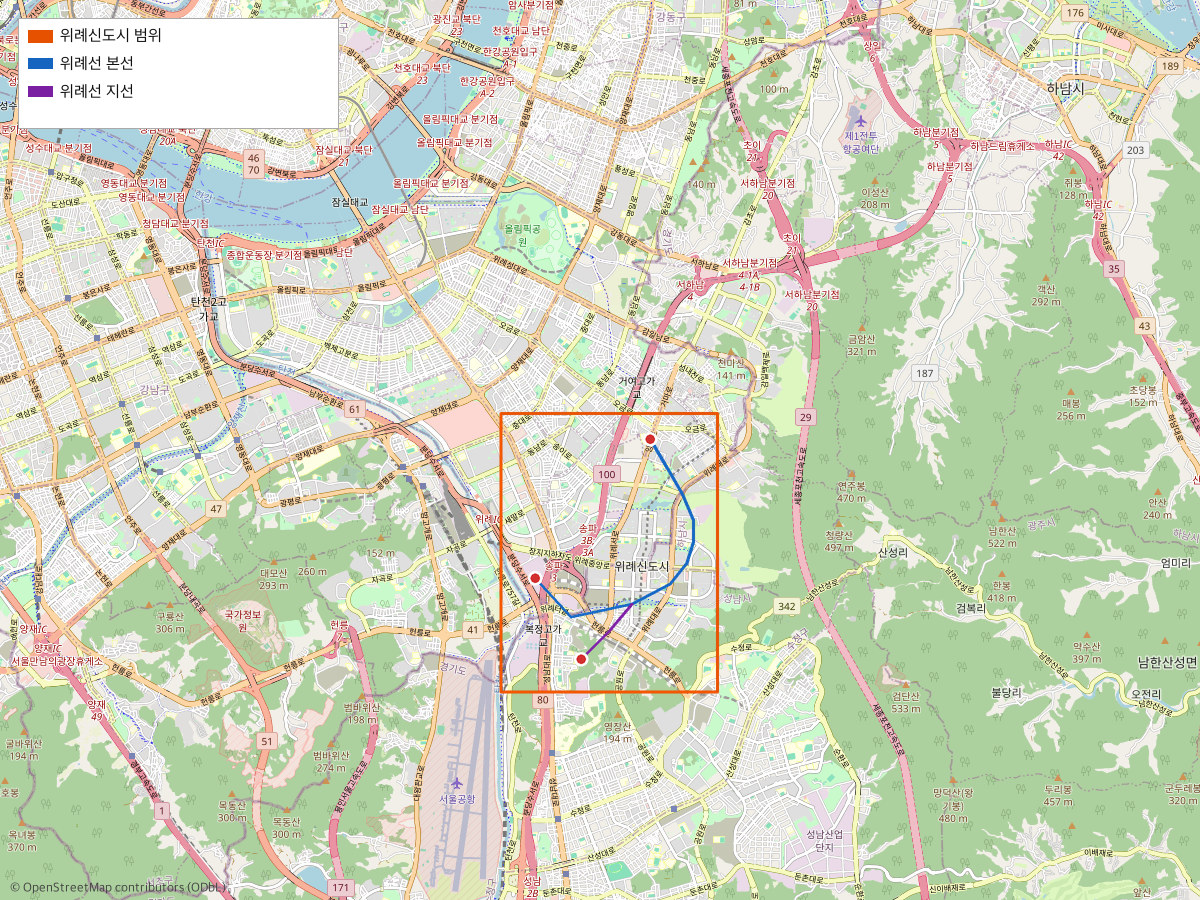
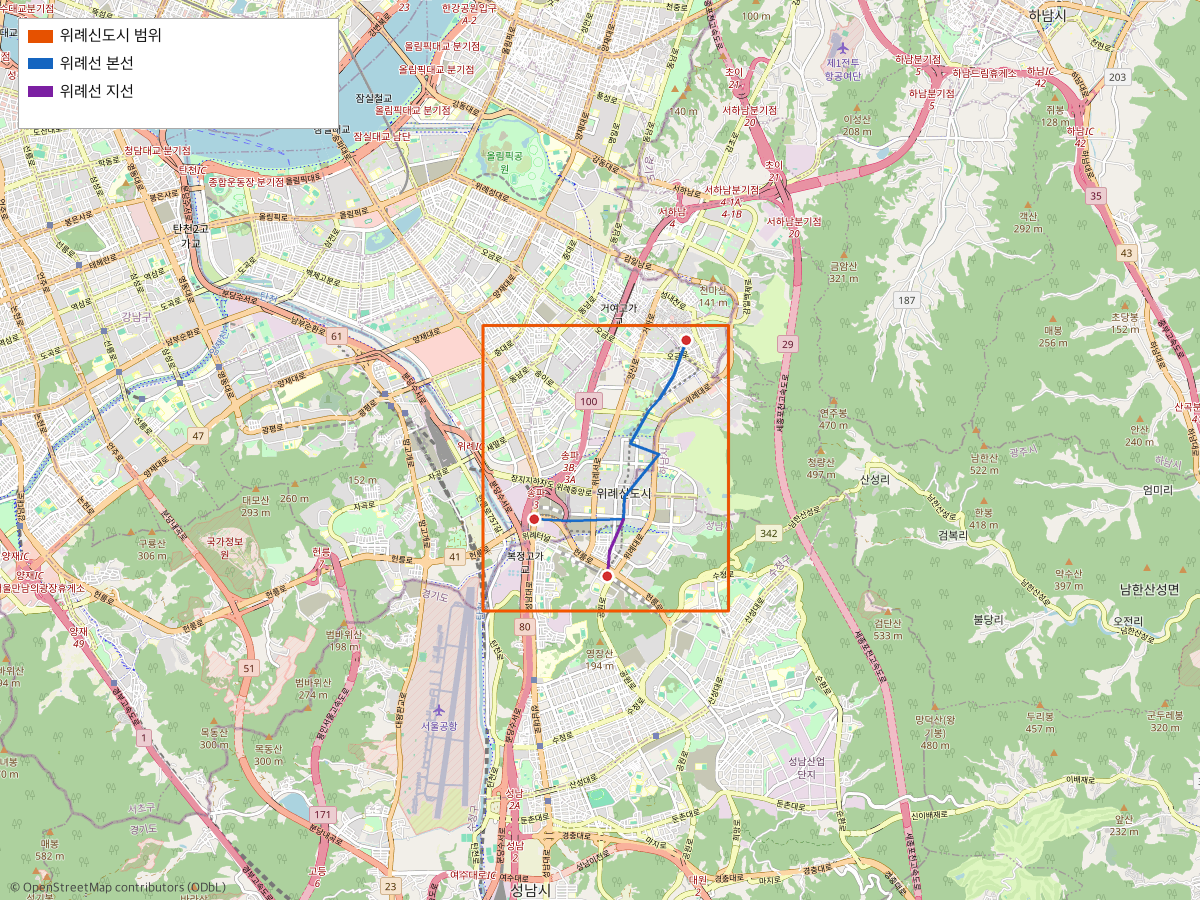
Fix Wirye Line map coordinates using OSM Overpass API
Previous coordinates were rough estimates, off by up to 1km.
Replaced with OSM-verified positions:
- 마천역/복정역/남위례역: Overpass railway=station nodes
- 덕수고/위례호수공원/위례중앙광장/위례역사공원: Overpass confirmed nodes
- Intermediate stops: interpolated along 위례대로/위례북로 road axis

diff --git a/scripts/make_wirye_maps.py b/scripts/make_wirye_maps.py
@@ -1,11 +1,11 @@
 #!/usr/bin/env python3
 """
-위례선 트램 보고서용 지도 5종 생성
-1. wirye-context-map.png        - 위례신도시 광역 위치 (§3)
-2. wirye-full-route-map.png     - 12개 정류장 전체 노선 (§4)
-3. wirye-macheon-area.png       - 마천역 일대 근접 (§5-4)
-4. wirye-bokjeong-area.png      - 복정역 일대 근접 (§5-2)
-5. wirye-namwirye-area.png      - 남위례역 일대 근접 (§5-3)
+위례선 트램 보고서용 지도 5종 생성 (OSM Overpass/Nominatim 검증 좌표 사용)
+
+확정 좌표 출처:
+  마천역·복정역·남위례역 → Overpass API (railway=station)
+  덕수고·위례호수공원·위례중앙광장·위례역사공원 → Overpass API (노드)
+  중간 정류장 → 위례대로/위례북로 도로 중심축 기반 보간
 """
 
 from staticmap import StaticMap, Line, CircleMarker
@@ -30,64 +30,62 @@ def add_credit(img):
               fill="#444444", font=load_font(13))
     return img
 
-# ── 위례선 정류장 좌표 ────────────────────────────────────────────
+# ── OSM 검증 정류장 좌표 ──────────────────────────────────────────
+# (lat, lon, 이름, 환승)
 STOPS = [
-    # (lat,   lon,     이름,          환승)
-    (37.4915, 127.1435, "마천",        "5호선"),
-    (37.4875, 127.1465, "북위례",      ""),
-    (37.4840, 127.1490, "위례솔",      ""),
-    (37.4805, 127.1510, "덕수고등학교",""),
-    (37.4775, 127.1510, "위례호수공원",""),
-    (37.4745, 127.1498, "위례별",      ""),
-    (37.4718, 127.1470, "위례중앙광장","(장래 위례신사선)"),
-    (37.4690, 127.1405, "위례역사공원","분기점"),
-    # 지선
-    (37.4655, 127.1368, "위례트램스퀘어",""),
-    (37.4615, 127.1318, "남위례",      "8호선"),
-    # 본선
-    (37.4672, 127.1300, "위례스마트시티",""),
-    (37.4725, 127.1238, "복정",        "8호선·수인분당선"),
+    (37.494953, 127.152724, "마천",         "5호선"),          # Overpass 확정
+    (37.490100, 127.150600, "북위례",        ""),               # 위례북로 축 보간
+    (37.487000, 127.148200, "위례솔",        ""),               # 위례북로 남단 보간
+    (37.485322, 127.146259, "덕수고등학교",  ""),               # Overpass 확정
+    (37.480962, 127.143162, "위례호수공원",  ""),               # Overpass 확정
+    (37.479500, 127.148200, "위례별",        ""),               # 스타필드시티 인근 보간
+    (37.473586, 127.142168, "위례중앙광장",  "(장래 위례신사선)"), # Overpass 확정
+    (37.470567, 127.141962, "위례역사공원",  "분기점"),         # Overpass 확정
+    # 지선 (보라)
+    (37.466200, 127.139500, "위례트램스퀘어",""),               # 위례대로 축 보간
+    (37.462772, 127.139216, "남위례",        "8호선"),          # Overpass 확정
+    # 본선 계속 (파랑)
+    (37.470300, 127.132800, "위례스마트시티",""),               # 역사공원→복정 보간
+    (37.470577, 127.126713, "복정",          "8호선·수인분당선"), # Overpass 확정
 ]
 
-MAIN_LINE = [p(lat,lon) for lat,lon,*_ in STOPS[:8]] + [p(STOPS[10][0], STOPS[10][1]), p(STOPS[11][0], STOPS[11][1])]
-BRANCH_LINE = [p(STOPS[7][0], STOPS[7][1])] + [p(lat,lon) for lat,lon,*_ in STOPS[8:10]]
+# 본선: 마천→역사공원→위례스마트시티→복정
+MAIN_LINE = [p(lat,lon) for lat,lon,*_ in STOPS[:8]] \
+          + [p(STOPS[10][0], STOPS[10][1]), p(STOPS[11][0], STOPS[11][1])]
 
-MAIN_COLOR   = "#1565C0"   # 파랑  (본선)
-BRANCH_COLOR = "#7B1FA2"   # 보라  (지선)
-XFER_COLOR   = "#D32F2F"   # 빨강  (환승역)
-STOP_COLOR   = "#FFFFFF"   # 흰색  (일반역)
+# 지선: 역사공원→위례트램스퀘어→남위례
+BRANCH_LINE = [p(STOPS[7][0], STOPS[7][1])] \
+            + [p(lat,lon) for lat,lon,*_ in STOPS[8:10]]
+
+MAIN_COLOR   = "#1565C0"
+BRANCH_COLOR = "#7B1FA2"
+XFER_COLOR   = "#D32F2F"
 
 
 # ══════════════════════════════════════════════════════════
-# 1. 광역 위치 지도 (§3): 위례신도시가 서울·성남·하남 어디에 있나
+# 1. 광역 위치 지도 (§3)
 # ══════════════════════════════════════════════════════════
-print("1. 광역 위치 지도 생성 중…")
+print("1. 광역 위치 지도…")
 m = StaticMap(1200, 900, url_template=TILE)
 
-# 위례신도시 영역 박스를 라인으로 표시
+# 위례신도시 외곽 박스
 WIRYE_BOX = [
-    p(37.495, 127.118), p(37.495, 127.155),
-    p(37.457, 127.155), p(37.457, 127.118),
-    p(37.495, 127.118),
+    p(37.497, 127.118), p(37.497, 127.160),
+    p(37.458, 127.160), p(37.458, 127.118),
+    p(37.497, 127.118),
 ]
 m.add_line(Line(WIRYE_BOX, "#E65100", 3))
-
-# 위례선 전체 노선 (얇게)
 m.add_line(Line(MAIN_LINE,   MAIN_COLOR,   3))
 m.add_line(Line(BRANCH_LINE, BRANCH_COLOR, 3))
 
-# 주변 주요역 마커
-for lat, lon in [(37.4915, 127.1435), (37.4725, 127.1238), (37.4615, 127.1318)]:
-    m.add_marker(CircleMarker(p(lat, lon), "white", 14))
-    m.add_marker(CircleMarker(p(lat, lon), XFER_COLOR, 9))
+for lat, lon in [(37.494953,127.152724),(37.470577,127.126713),(37.462772,127.139216)]:
+    m.add_marker(CircleMarker(p(lat,lon), "white", 14))
+    m.add_marker(CircleMarker(p(lat,lon), XFER_COLOR, 9))
 
-img = m.render(zoom=13, center=[127.135, 37.490])
-
+img = m.render(zoom=13, center=[127.138, 37.480])
 draw = ImageDraw.Draw(img)
 f16 = load_font(16)
-f14 = load_font(14)
 
-# 범례
 bx, by = 18, 18
 draw.rectangle([bx,by,bx+320,by+110], fill=(255,255,255,220), outline="#AAAAAA")
 draw.rectangle([bx+10,by+12,bx+34,by+24], fill="#E65100")
@@ -97,146 +95,121 @@ draw.text((bx+42, by+36), "위례선 본선",        fill="#111", font=f16)
 draw.rectangle([bx+10,by+68,bx+34,by+78], fill=BRANCH_COLOR)
 draw.text((bx+42, by+64), "위례선 지선",        fill="#111", font=f16)
 
-# 행정구역 레이블
-for (lat,lon,label) in [
-    (37.510, 127.090, "서울 송파구"),
-    (37.455, 127.120, "경기 성남시"),
-    (37.460, 127.165, "경기 하남시"),
-]:
-    draw.text(p(0,0), "", fill="white", font=f14)   # dummy
-
 add_credit(img)
 img.save(f"{IMGDIR}/wirye-context-map.png")
-print(f"   저장: wirye-context-map.png ({img.width}×{img.height})")
+print(f"   저장 완료 ({img.width}×{img.height})")
 
 
 # ══════════════════════════════════════════════════════════
-# 2. 전체 노선도 (§4): 12개 정류장 모두 표시
+# 2. 전체 노선도 (§4)
 # ══════════════════════════════════════════════════════════
-print("2. 전체 노선 지도 생성 중…")
+print("2. 전체 노선 지도…")
 m = StaticMap(1200, 1000, url_template=TILE)
 m.add_line(Line(MAIN_LINE,   MAIN_COLOR,   5))
 m.add_line(Line(BRANCH_LINE, BRANCH_COLOR, 5))
 
 for lat, lon, name, xfer in STOPS:
     is_xfer = bool(xfer and xfer not in ("분기점",))
-    color = XFER_COLOR if is_xfer else "#1565C0"
-    m.add_marker(CircleMarker(p(lat, lon), "white", 16))
-    m.add_marker(CircleMarker(p(lat, lon), color, 11))
+    color = XFER_COLOR if is_xfer else MAIN_COLOR
+    m.add_marker(CircleMarker(p(lat,lon), "white", 16))
+    m.add_marker(CircleMarker(p(lat,lon), color, 11))
 
-img = m.render(zoom=15, center=[127.138, 37.477])
+img = m.render(zoom=14, center=[127.140, 37.479])
 draw = ImageDraw.Draw(img)
 f15 = load_font(15)
-f13 = load_font(13)
 
-# 범례
 bx, by = 18, 18
-draw.rectangle([bx,by,bx+320,by+145], fill=(255,255,255,220), outline="#AAAAAA")
+draw.rectangle([bx,by,bx+340,by+148], fill=(255,255,255,220), outline="#AAAAAA")
 draw.rectangle([bx+10,by+12,bx+34,by+24], fill=MAIN_COLOR)
-draw.text((bx+42, by+8),  "위례선 본선 (마천→복정)",     fill="#111", font=f15)
+draw.text((bx+42, by+8),  "위례선 본선 (마천→복정)",        fill="#111", font=f15)
 draw.rectangle([bx+10,by+42,bx+34,by+54], fill=BRANCH_COLOR)
-draw.text((bx+42, by+38), "위례선 지선 (역사공원→남위례)",fill="#111", font=f15)
-draw.ellipse([bx+14,by+72,bx+30,by+86],  fill="white", outline=XFER_COLOR, width=2)
-draw.ellipse([bx+17,by+75,bx+27,by+83],  fill=XFER_COLOR)
-draw.text((bx+42, by+69), "환승역 (5·8호선·수인분당선)", fill="#111", font=f15)
-draw.ellipse([bx+14,by+100,bx+30,by+114],fill="white", outline=MAIN_COLOR, width=2)
-draw.ellipse([bx+17,by+103,bx+27,by+111],fill=MAIN_COLOR)
-draw.text((bx+42, by+97), "일반 정류장",                 fill="#111", font=f15)
+draw.text((bx+42, by+38), "위례선 지선 (역사공원→남위례)",   fill="#111", font=f15)
+draw.ellipse([bx+14,by+73,bx+30,by+87],  fill="white", outline=XFER_COLOR, width=2)
+draw.ellipse([bx+17,by+76,bx+27,by+84],  fill=XFER_COLOR)
+draw.text((bx+42, by+70), "환승역 (5·8호선·수인분당선)",     fill="#111", font=f15)
+draw.ellipse([bx+14,by+102,bx+30,by+116],fill="white", outline=MAIN_COLOR, width=2)
+draw.ellipse([bx+17,by+105,bx+27,by+113],fill=MAIN_COLOR)
+draw.text((bx+42, by+99), "일반 정류장",                     fill="#111", font=f15)
 
 add_credit(img)
 img.save(f"{IMGDIR}/wirye-full-route-map.png")
-print(f"   저장: wirye-full-route-map.png ({img.width}×{img.height})")
+print(f"   저장 완료 ({img.width}×{img.height})")
 
 
 # ══════════════════════════════════════════════════════════
-# 3. 마천역 일대 근접 (§5-4)
+# 3. 마천역 근접 (§5-4)
 # ══════════════════════════════════════════════════════════
-print("3. 마천역 근접 지도 생성 중…")
+print("3. 마천역 근접 지도…")
 m = StaticMap(1000, 800, url_template=TILE)
+# 마천역→북위례 구간
+m.add_line(Line([p(37.494953,127.152724), p(37.490100,127.150600)], MAIN_COLOR, 6))
+m.add_marker(CircleMarker(p(37.494953,127.152724), "white", 22))
+m.add_marker(CircleMarker(p(37.494953,127.152724), XFER_COLOR, 15))
+m.add_marker(CircleMarker(p(37.490100,127.150600), "white", 14))
+m.add_marker(CircleMarker(p(37.490100,127.150600), MAIN_COLOR, 9))
 
-# 마천역에서 북위례까지 구간만 표시
-m.add_line(Line([p(37.4915,127.1435), p(37.4875,127.1465)], MAIN_COLOR, 6))
-
-# 마천역 마커 (크게)
-m.add_marker(CircleMarker(p(37.4915, 127.1435), "white", 22))
-m.add_marker(CircleMarker(p(37.4915, 127.1435), XFER_COLOR, 15))
-
-# 북위례 마커 (작게)
-m.add_marker(CircleMarker(p(37.4875, 127.1465), "white", 14))
-m.add_marker(CircleMarker(p(37.4875, 127.1465), MAIN_COLOR, 9))
-
-img = m.render(zoom=17, center=[127.143, 37.491])
+img = m.render(zoom=16, center=[127.151, 37.493])
 draw = ImageDraw.Draw(img)
-f17 = load_font(17)
-
-# 레이블 박스
 bx, by = 18, 18
-draw.rectangle([bx,by,bx+330,by+80], fill=(255,255,255,220), outline="#AAAAAA")
-draw.text((bx+12, by+10), "마천역 일대",            fill="#111", font=f17)
-draw.text((bx+12, by+38), "● 마천역 (5호선 환승)",  fill=XFER_COLOR, font=load_font(15))
-draw.text((bx+12, by+60), "● 위례선 남행 방향 →",   fill=MAIN_COLOR, font=load_font(15))
-
+draw.rectangle([bx,by,bx+320,by+80], fill=(255,255,255,220), outline="#AAAAAA")
+draw.text((bx+12, by+10), "마천역 일대",            fill="#111",    font=load_font(17))
+draw.text((bx+12, by+38), "● 마천역 (5호선 환승)",  fill=XFER_COLOR,font=load_font(15))
+draw.text((bx+12, by+60), "● 위례선 남서행 →",      fill=MAIN_COLOR,font=load_font(15))
 add_credit(img)
 img.save(f"{IMGDIR}/wirye-macheon-area.png")
-print(f"   저장: wirye-macheon-area.png ({img.width}×{img.height})")
+print(f"   저장 완료 ({img.width}×{img.height})")
 
 
 # ══════════════════════════════════════════════════════════
-# 4. 복정역 일대 근접 (§5-2)
+# 4. 복정역 근접 (§5-2)
 # ══════════════════════════════════════════════════════════
-print("4. 복정역 근접 지도 생성 중…")
+print("4. 복정역 근접 지도…")
 m = StaticMap(1000, 800, url_template=TILE)
-
 # 위례스마트시티→복정 구간
-m.add_line(Line([p(37.4672,127.1300), p(37.4725,127.1238)], MAIN_COLOR, 6))
+m.add_line(Line([p(37.470300,127.132800), p(37.470577,127.126713)], MAIN_COLOR, 6))
+m.add_marker(CircleMarker(p(37.470577,127.126713), "white", 22))
+m.add_marker(CircleMarker(p(37.470577,127.126713), XFER_COLOR, 15))
+m.add_marker(CircleMarker(p(37.470300,127.132800), "white", 14))
+m.add_marker(CircleMarker(p(37.470300,127.132800), MAIN_COLOR, 9))
 
-m.add_marker(CircleMarker(p(37.4725, 127.1238), "white", 22))
-m.add_marker(CircleMarker(p(37.4725, 127.1238), XFER_COLOR, 15))
-m.add_marker(CircleMarker(p(37.4672, 127.1300), "white", 14))
-m.add_marker(CircleMarker(p(37.4672, 127.1300), MAIN_COLOR, 9))
-
-img = m.render(zoom=17, center=[127.127, 37.473])
+img = m.render(zoom=16, center=[127.129, 37.471])
 draw = ImageDraw.Draw(img)
-
 bx, by = 18, 18
 draw.rectangle([bx,by,bx+370,by+80], fill=(255,255,255,220), outline="#AAAAAA")
-draw.text((bx+12, by+10), "복정역 일대",                         fill="#111",    font=load_font(17))
-draw.text((bx+12, by+38), "● 복정역 (8호선·수인분당선 환승)",    fill=XFER_COLOR,font=load_font(15))
-draw.text((bx+12, by+60), "← 위례스마트시티 방향",               fill=MAIN_COLOR,font=load_font(15))
-
+draw.text((bx+12, by+10), "복정역 일대",                      fill="#111",    font=load_font(17))
+draw.text((bx+12, by+38), "● 복정역 (8호선·수인분당선 환승)", fill=XFER_COLOR,font=load_font(15))
+draw.text((bx+12, by+60), "← 위례스마트시티 방향",            fill=MAIN_COLOR,font=load_font(15))
 add_credit(img)
 img.save(f"{IMGDIR}/wirye-bokjeong-area.png")
-print(f"   저장: wirye-bokjeong-area.png ({img.width}×{img.height})")
+print(f"   저장 완료 ({img.width}×{img.height})")
 
 
 # ══════════════════════════════════════════════════════════
-# 5. 남위례역 일대 근접 (§5-3)
+# 5. 남위례역 근접 (§5-3)
 # ══════════════════════════════════════════════════════════
-print("5. 남위례역 근접 지도 생성 중…")
+print("5. 남위례역 근접 지도…")
 m = StaticMap(1000, 800, url_template=TILE)
+# 위례역사공원→위례트램스퀘어→남위례
+m.add_line(Line([p(37.470567,127.141962),
+                 p(37.466200,127.139500),
+                 p(37.462772,127.139216)], BRANCH_COLOR, 6))
+m.add_marker(CircleMarker(p(37.462772,127.139216), "white", 22))
+m.add_marker(CircleMarker(p(37.462772,127.139216), XFER_COLOR, 15))
+m.add_marker(CircleMarker(p(37.466200,127.139500), "white", 14))
+m.add_marker(CircleMarker(p(37.466200,127.139500), BRANCH_COLOR, 9))
+m.add_marker(CircleMarker(p(37.470567,127.141962), "white", 14))
+m.add_marker(CircleMarker(p(37.470567,127.141962), "#888888", 9))
 
-# 위례트램스퀘어→남위례 지선
-m.add_line(Line([p(37.4690,127.1405), p(37.4655,127.1368), p(37.4615,127.1318)], BRANCH_COLOR, 6))
-
-m.add_marker(CircleMarker(p(37.4615, 127.1318), "white", 22))
-m.add_marker(CircleMarker(p(37.4615, 127.1318), XFER_COLOR, 15))
-m.add_marker(CircleMarker(p(37.4655, 127.1368), "white", 14))
-m.add_marker(CircleMarker(p(37.4655, 127.1368), BRANCH_COLOR, 9))
-m.add_marker(CircleMarker(p(37.4690, 127.1405), "white", 14))
-m.add_marker(CircleMarker(p(37.4690, 127.1405), "#888888", 9))
-
-img = m.render(zoom=17, center=[127.133, 37.463])
+img = m.render(zoom=16, center=[127.140, 37.466])
 draw = ImageDraw.Draw(img)
-
 bx, by = 18, 18
-draw.rectangle([bx,by,bx+370,by+98], fill=(255,255,255,220), outline="#AAAAAA")
+draw.rectangle([bx,by,bx+360,by+98], fill=(255,255,255,220), outline="#AAAAAA")
 draw.text((bx+12, by+10), "남위례역 일대",              fill="#111",       font=load_font(17))
 draw.text((bx+12, by+38), "● 남위례역 (8호선 환승)",    fill=XFER_COLOR,   font=load_font(15))
 draw.text((bx+12, by+60), "● 위례트램스퀘어",           fill=BRANCH_COLOR, font=load_font(15))
-draw.text((bx+12, by+80), "↑ 위례역사공원(분기) 방향",  fill="#555555",    font=load_font(14))
-
+draw.text((bx+12, by+80), "↑ 위례역사공원(분기점) 방향",fill="#555555",    font=load_font(14))
 add_credit(img)
 img.save(f"{IMGDIR}/wirye-namwirye-area.png")
-print(f"   저장: wirye-namwirye-area.png ({img.width}×{img.height})")
+print(f"   저장 완료 ({img.width}×{img.height})")
 
-print("\n완료.")
+print("\n전체 완료.")
